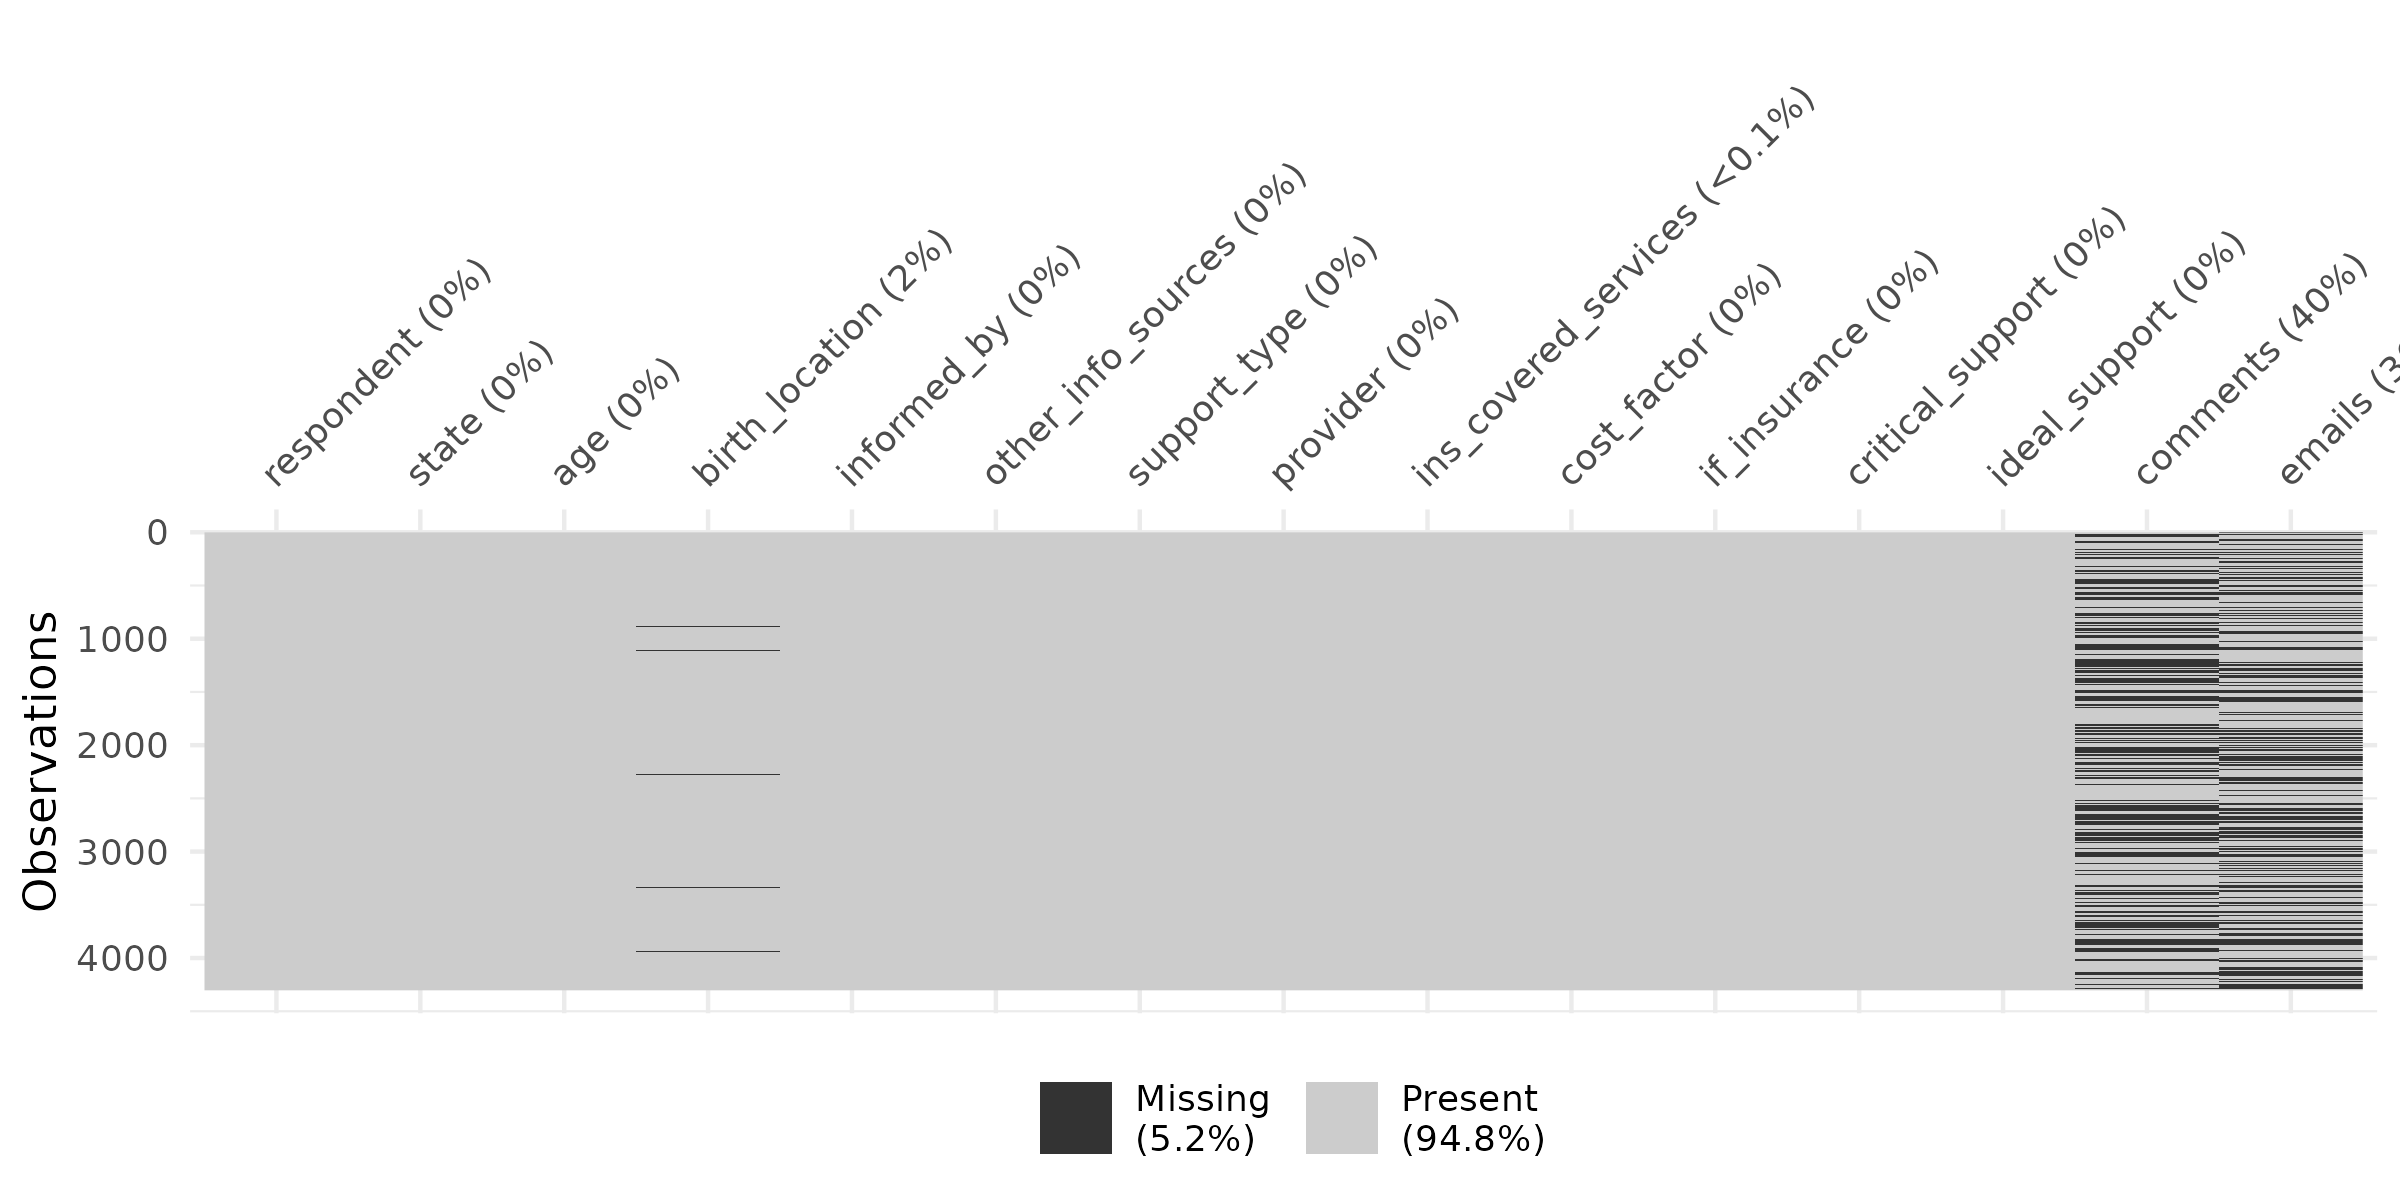
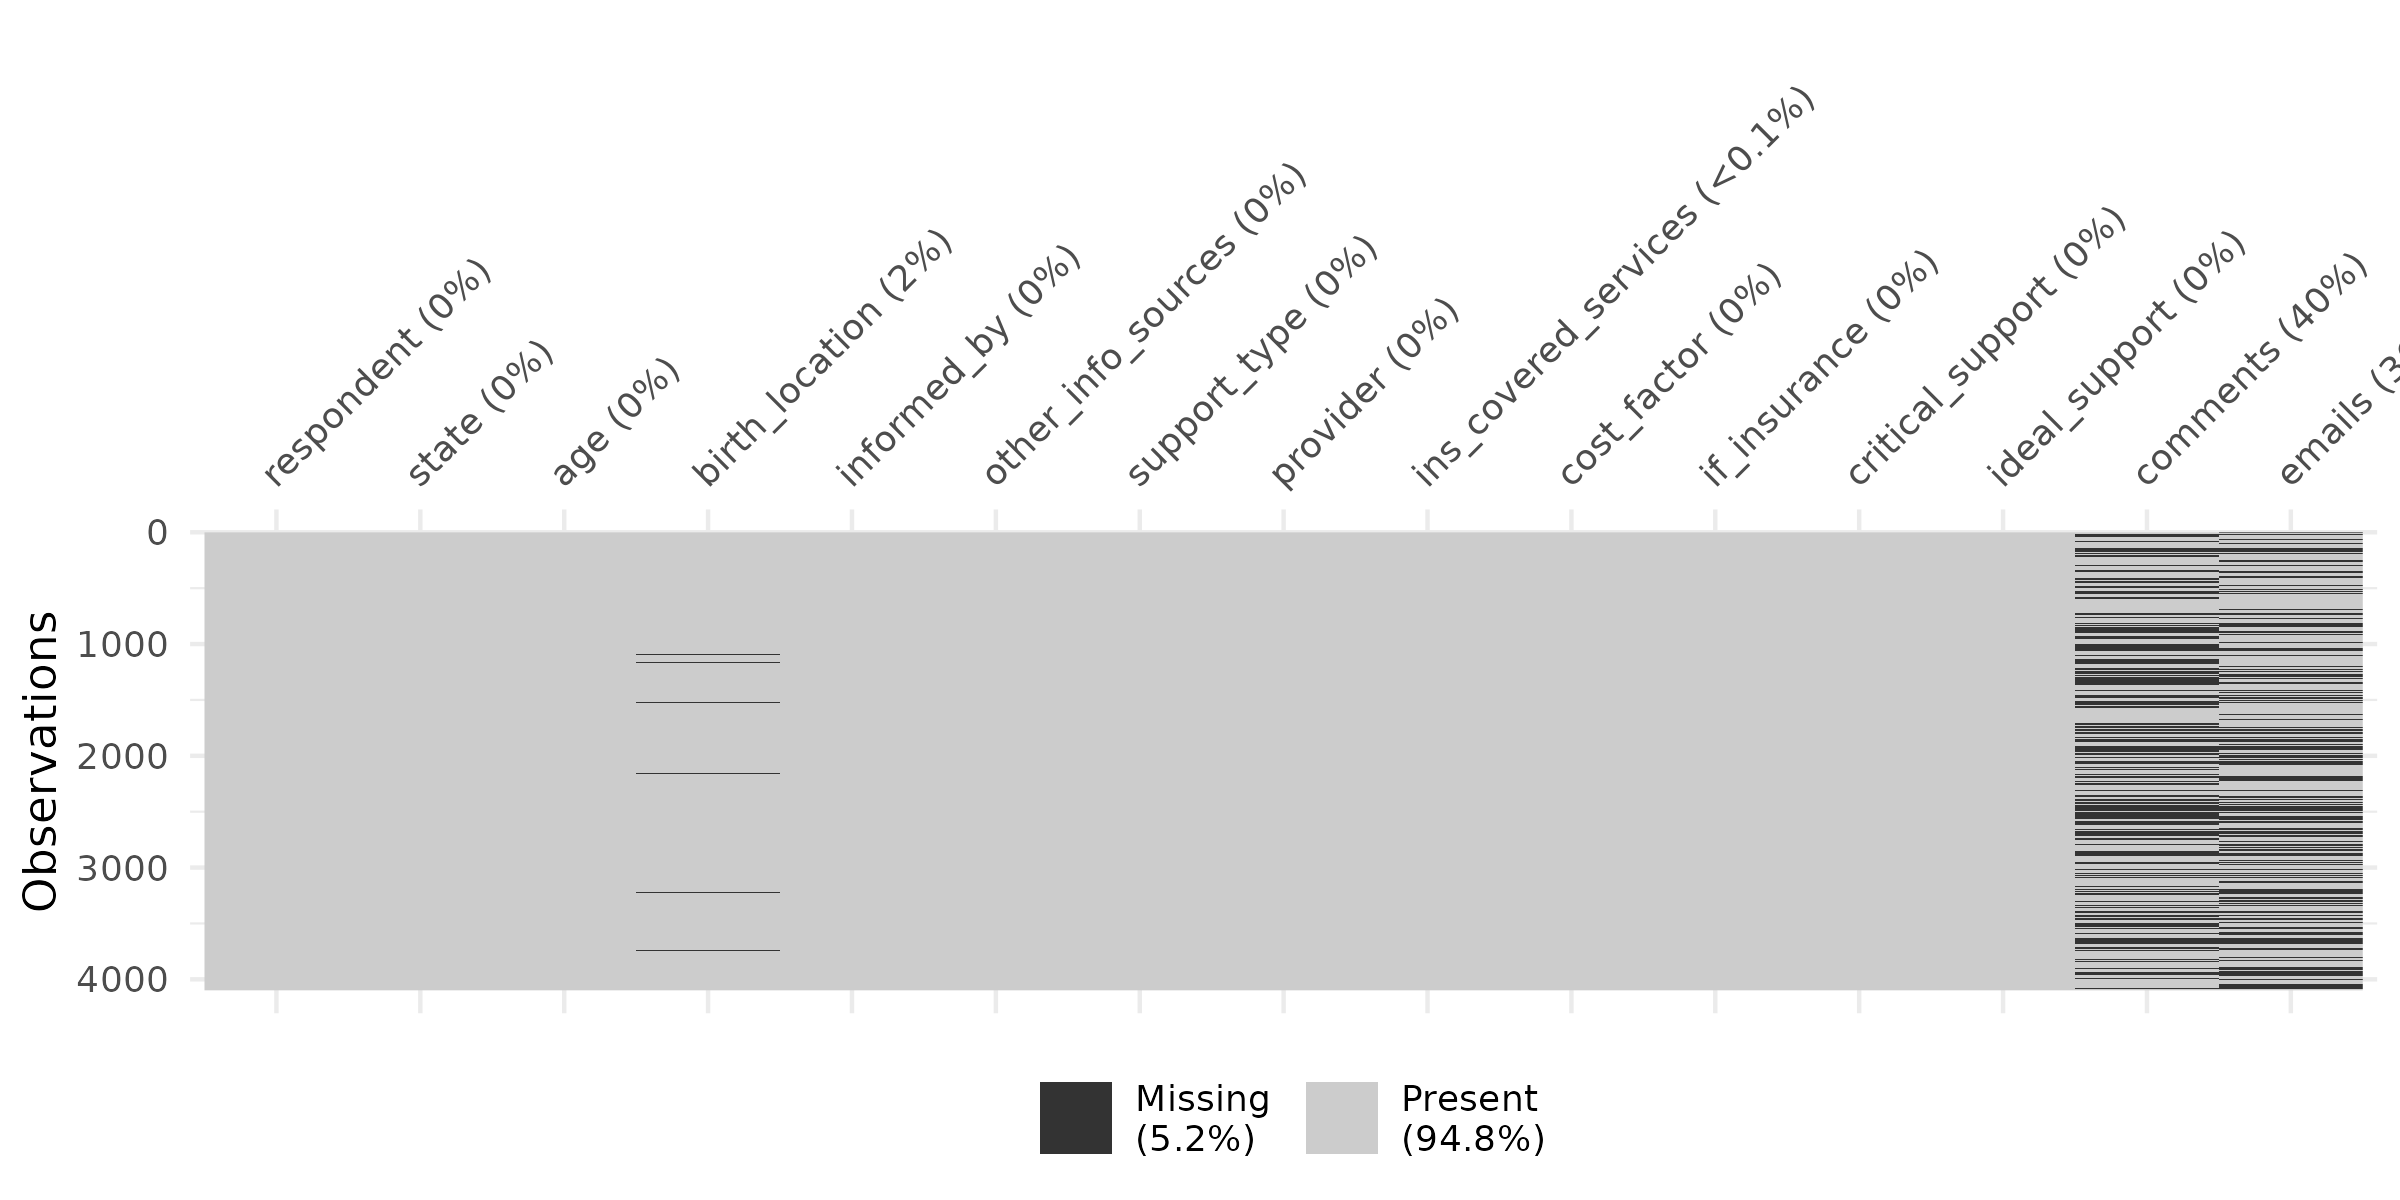
Clean new critical variable

diff --git a/memo/memo.md b/memo/memo.md
@@ -23,6 +23,7 @@ library(ggpattern)
 library(ggplot2)
 library(RColorBrewer)
 library(ggridges)
+library(visdat)
 ```
 
 ``` r
@@ -346,10 +347,63 @@ unique(Postpartum$critical)
     ## [48] "Help with meal"
 
 ``` r
-Postpartum <- Postpartum|>
+Postpartum <- Postpartum |>
   mutate(critical = ifelse(critical == " In-home help with care tasks", "In-home help with care tasks", critical)) |>
-  mutate(critical = ifelse(critical == " Lactation support", "Lactation support", critical))
+  mutate(critical = ifelse(critical == " Lactation support", "Lactation support", critical)) |>
+  mutate(critical = ifelse(critical ==  " Pelvic floor PT", "Pelvic floor PT", critical)) |>
+  mutate(critical = ifelse(critical ==  " Emotional support", "Emotional support", critical)) |>
+  mutate(critical = ifelse(critical ==  " Help with meals", "Help with meals", critical)) |>
+  mutate(critical = ifelse(critical ==  " Family support", "Family support", critical)) |>
+  mutate(critical = ifelse(critical ==  " Other", "Other", critical)) |>
+  mutate(critical = ifelse(critical ==  " New parent groups", "New parent groups", critical)) |>
+  mutate(critical = ifelse(critical ==  " In-home follow up appointments", "In-home follow up appointments", critical)) |>
+  mutate(critical = ifelse(critical ==  " Paid parental leave", "Paid parental leave", critical)) |>
+  mutate(critical = ifelse(critical ==  " Overnight help", "Overnight help", critical)) |>
+  mutate(critical = ifelse(critical ==  " Massage or chiropractic", "Massage or chiropractic", critical)) |>
+  mutate(critical = ifelse(critical ==  " Acupuncture", "Acupuncture", critical)) |>
+  mutate(critical = ifelse(critical ==  " family support", "Family support", critical)) |>
+  mutate(critical = ifelse(critical ==  " Hospital/office follow up appointments", "Hospital/office follow up appointments", critical)) |>
+  mutate(critical = ifelse(critical ==  " New parent group", "New parent group", critical)) |>
+  mutate(critical = ifelse(critical ==  "Pelvice floor PT", "Pelvic floor PT", critical)) |>
+  mutate(critical = ifelse(critical ==  " Pelvic floor rehab", "Pelvic floor PT", critical)) |>
+  mutate(critical = ifelse(critical ==  " Unpaid parental leave", "Unpaid parental leave", critical)) |>
+  mutate(critical = ifelse(critical ==  " in-home help with care tasks", "In-home help with care tasks", critical)) |>
+  mutate(critical = ifelse(critical ==  "Pelvic floor rehab", "Pelvic floor PT", critical)) |>
+  mutate(critical = ifelse(critical ==  "Emotial support", "Emotional support", critical)) |>
+  mutate(critical = ifelse(critical ==  "Help with meal", "Help with meals", critical)) |>
+  mutate(critical = ifelse(critical ==  "Lactation", "Lactation support", critical)) |>
+  mutate(critical = ifelse(critical ==  "Lactatiom support", "Lactation support", critical)) |>
+  mutate(critical = ifelse(critical ==  "Emototional support", "Emotional support", critical)) |>
+  mutate(critical = ifelse(critical ==  "In-home help with child care", "In-home help with care tasks", critical)) |>
+  mutate(critical = ifelse(critical ==  "In-home help wih care tasks", "In-home help with care tasks", critical)) |>
+  mutate(critical = ifelse(critical ==  "Help with care tasks", "In-home help with care tasks", critical)) |>
+  mutate(critical = ifelse(critical ==  "New parent group", "New parent groups", critical)) |>
+  mutate(critical = ifelse(critical ==  "Child care", "In-home help with care tasks", critical)) |>
+  mutate(critical = ifelse(critical ==  "Lacation support", "Lactation support", critical))
 ```
+
+``` r
+unique(Postpartum$critical)
+```
+
+    ##  [1] "Help with meals"                       
+    ##  [2] "In-home help with care tasks"          
+    ##  [3] "Lactation support"                     
+    ##  [4] "Unpaid parental leave"                 
+    ##  [5] "Pelvic floor PT"                       
+    ##  [6] "Emotional support"                     
+    ##  [7] NA                                      
+    ##  [8] "Duplicate entry"                       
+    ##  [9] "Family support"                        
+    ## [10] "New parent groups"                     
+    ## [11] "Hospital/office follow up appointments"
+    ## [12] "Other"                                 
+    ## [13] "Sleep support"                         
+    ## [14] "In-home follow up appointments"        
+    ## [15] "Paid parental leave"                   
+    ## [16] "Overnight help"                        
+    ## [17] "Massage or chiropractic"               
+    ## [18] "Acupuncture"
 
 ### Move to extra file??
 
@@ -588,22 +642,44 @@ cost_not_applicable <- c("Did not know post partum services other than the follo
 ### Plot 4
 
 ``` r
+Postpartum <- Postpartum |>
+  filter(critical != "NA") |>
+  filter(critical != "Duplicate entry")
+
 ggplot(Postpartum, 
        aes(x = first_age, 
            y = critical,
            color = critical, 
            fill = critical)) +
+  # add facet by age group or care type or ??
   geom_density_ridges(alpha = .8) +
   scale_color_viridis_d() +
   scale_fill_viridis_d() +
   theme_minimal() +
   theme(legend.position = "none") +
-  labs (title = "Critical Postpartum Care by Age of Birthing Person", x ="Age during first birth", y = "Care Type")
+  labs (title = "Critical Postpartum Care by Age of Birthing Person", x ="Age During First Birth", y = "Care Type")
 ```
 
-    ## Picking joint bandwidth of 8.35
+    ## Picking joint bandwidth of 2.35
 
 ![](memo_files/figure-gfm/critical-ridge-plot-1.png)<!-- -->
+
+### Plot 6 Missing Data
+
+``` r
+Postpartum <- Postpartum %>%
+  select(respondent, state, age, birth_location, informed_by, other_info_sources, support_type, provider, ins_covered_services, cost_factor, if_insurance, critical_support, ideal_support, comments, emails)
+```
+
+``` r
+vis_miss(Postpartum)
+```
+
+![](memo_files/figure-gfm/unnamed-chunk-1-1.png)<!-- -->
+
+``` r
+ggsave(filename = "Missingdataplot.png", width = 8, height = 4)
+```
 
 #### Final Plot 1
 
